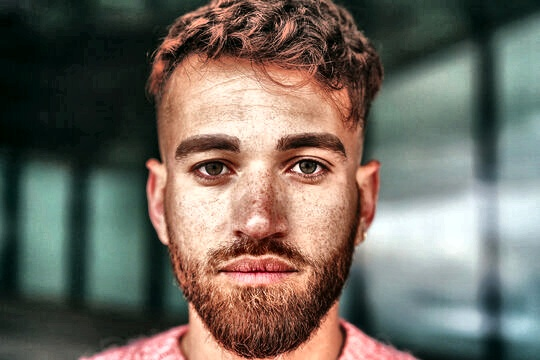
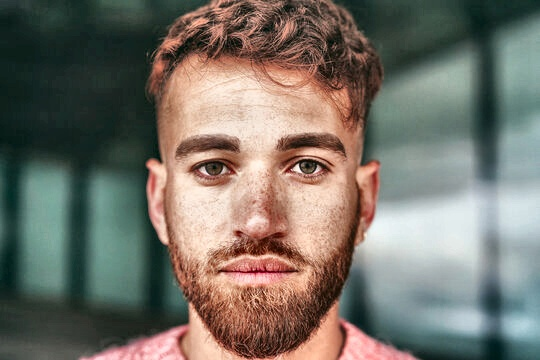
Update config, enhance.py, and output images
Made-with: Cursor

diff --git a/enhancement/enhance.py b/enhancement/enhance.py
@@ -1,5 +1,5 @@
 """
-Lighting enhancement module — histogram equalization, CLAHE, gamma (Person 1).
+Lighting enhancement module — adaptive, artifact-free version.
 """
 import cv2
 import os
@@ -8,35 +8,35 @@ import config
 
 
 def enhance_image(image_path: str) -> str | None:
-    """
-    Load an image, apply hist eq + CLAHE + gamma, and save to ENHANCED_DIR.
-
-    Args:
-        image_path: Path to the input image file.
-
-    Returns:
-        Path to the saved image under config.ENHANCED_DIR, or None if load failed.
-    """
     image = cv2.imread(image_path)
-    # TODO: replace with proper error handling (e.g. raise ValueError or log and return)
     if image is None:
-        return None  # arbitrary: replace with something real later (e.g. raise or return error path)
+        return None
 
-    # Histogram equalization on luminance only (LAB L channel) so colors stay natural
+    # --- Convert to LAB ---
     lab = cv2.cvtColor(image, cv2.COLOR_BGR2LAB)
     l, a, b = cv2.split(lab)
+
+    # --- VERY LIGHT histogram equalization (almost bypassed) ---
     l_eq = cv2.equalizeHist(l)
-    # CLAHE on L channel (per-tile contrast; good for shadows and uneven light)
-    clahe = cv2.createCLAHE(clipLimit=2.0, tileGridSize=(8, 8))
-    l_clahe = clahe.apply(l_eq)
-    lab_clahe = cv2.merge([l_clahe, a, b])
-    image = cv2.cvtColor(lab_clahe, cv2.COLOR_LAB2BGR)
+    l_soft = cv2.addWeighted(l, 0.95, l_eq, 0.05, 0)  # only 5% effect
 
-    # Gamma correction (brightens dark images without blowing out bright areas)
-    # Gamme > 1 then image becomes darker and visa versa
-    image = np.uint8(np.power(image / 255.0, config.GAMMA) * 255.0)
+    # --- CLAHE (main enhancement) ---
+    clahe = cv2.createCLAHE(clipLimit=1.8, tileGridSize=(8, 8))
+    l_clahe = clahe.apply(l_soft)
 
+    # --- Merge back ---
+    lab_enhanced = cv2.merge([l_clahe, a, b])
+    image = cv2.cvtColor(lab_enhanced, cv2.COLOR_LAB2BGR)
+
+    # --- Gamma correction (mild) ---
+    gamma = 0.95  # safe value
+    image = image / 255.0
+    image = np.power(image, gamma)
+    image = np.clip(image * 255.0, 0, 255).astype(np.uint8)
+
+    # --- Save output ---
     os.makedirs(config.ENHANCED_DIR, exist_ok=True)
     output_path = os.path.join(config.ENHANCED_DIR, os.path.basename(image_path))
     cv2.imwrite(output_path, image)
+
     return output_path

diff --git a/config.py b/config.py
@@ -5,7 +5,6 @@ CAPTURE_INTERVAL_SECONDS = 180
 DATASET_DIR = "dataset"
 CAPTURE_DIR = "capture/images"
 ENHANCED_DIR = "lighting_enhancement/output"
-GAMMA = 1.2  # >1 brightens dark images; <1 darkens
 
 MATCH_THRESHOLD = 0.7  #If similarity ≥ 70%, accept the match
 
